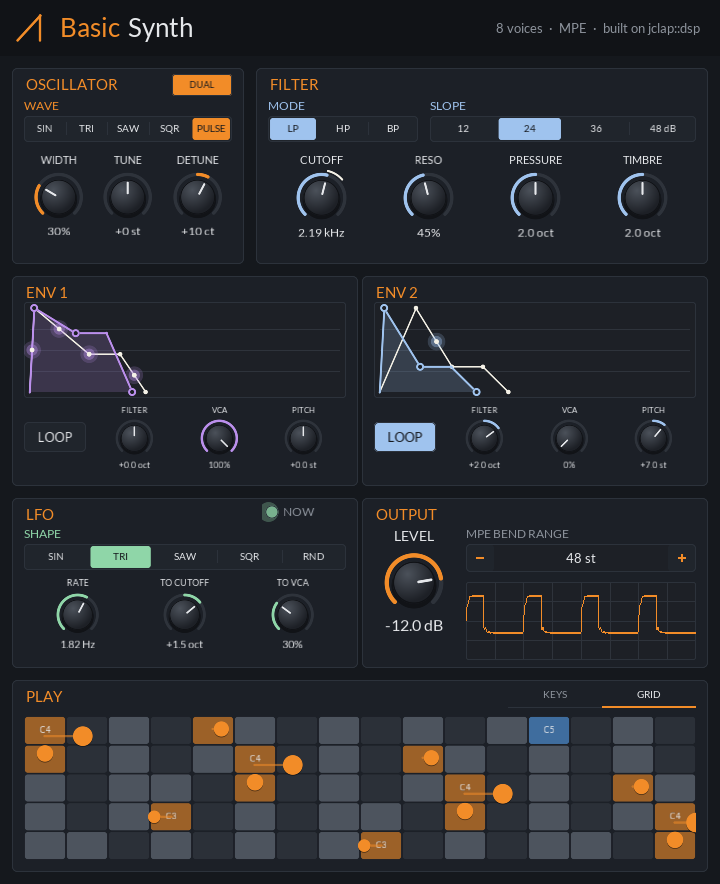
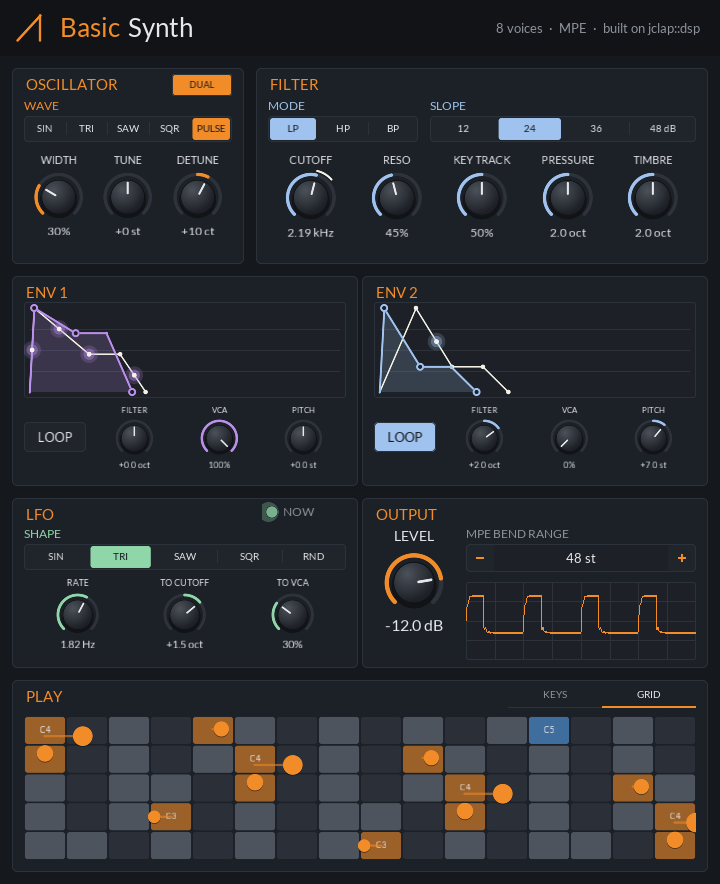
Basic Synth: filter key tracking
KEY TRACK moves the cutoff with the note's pitch, up to an octave per
octave from C4, and is modulatable per voice.

Claude-Session: https://claude.ai/code/session_012S2AHA8dQwVwrEzNnAoqai

Changed region(s): [[0.5194, 0.1527, 0.825, 0.2749], [0.3972, 0.1527, 0.4889, 0.2749], [0.8556, 0.1527, 0.9167, 0.2749]]

diff --git a/plugins/basic-synth/src/voice.h b/plugins/basic-synth/src/voice.h
@@ -4,7 +4,7 @@
 // filter, the VCA and the pitch by their own amounts. A looping envelope is not the voice's own: the
 // plugin runs one shared cycle and passes its value in, so every voice moves together, and an LFO moves the cutoff
 // and the VCA. Per-note expression (MPE) moves it too: bend sets the pitch, and pressure and timbre
-// open the filter.
+// open the filter, and the cutoff can follow the note.
 
 #include <jclap/dsp/envelope.h>
 #include <jclap/dsp/filter.h>
@@ -31,6 +31,8 @@ struct VoiceSettings {
    jclap::dsp::Filter::Mode filterMode = jclap::dsp::Filter::Mode::LowPass;
    jclap::dsp::Filter::Slope slope = jclap::dsp::Filter::Slope::Db24;
    double cutoffHz = 2000.0, resonance = 0.3;
+   // How far the cutoff follows the note's pitch, 0..1: at 1 it moves an octave per octave, from C4.
+   double keyTrack = 0.0;
    // An envelope: ADSR in seconds and sustain level, where it goes, and whether it loops (then the
    // voice takes the shared cycle's value instead). Filter is in octaves, pitch in semitones, both
    // either way; VCA is 0..1.
@@ -86,6 +88,7 @@ public:
          sends_[i] = s.env[i];
       }
       cutoff_.setTarget(std::log2(s.cutoffHz));
+      keyTrack_ = s.keyTrack;
       pressureAmount_ = s.pressureAmount;
       timbreAmount_ = s.timbreAmount;
       lfo_.setShape(s.lfoShape);
@@ -168,7 +171,7 @@ public:
          osc_.setFrequency(jclap::dsp::noteToHz(pitch));
          source = osc_.process();
       }
-      const double octaves = cutoff_.process() + toFilter + pressureAmount_ * pressure_.process() +
+      const double octaves = cutoff_.process() + toFilter + keyTrack_ * (pitch - 60.0) / 12.0 + pressureAmount_ * pressure_.process() +
                              timbreAmount_ * 2.0 * (timbre_.process() - 0.5) + lfoToCutoff_ * lfo;
       filter_.setCutoff(std::exp2(std::clamp(octaves, 3.0, 15.0)));
       // What the envelopes leave of the VCA follows the gate: with no envelope sent to it, the VCA
@@ -212,7 +215,7 @@ private:
    // Pitch in semitones; cutoff in octaves (log2 Hz). The gate glides over a few ms so a gate-only
    // VCA opens and closes without clicks.
    jclap::dsp::Smoother pitch_, pressure_, timbre_, cutoff_, gate_;
-   double pressureAmount_ = 0.0, timbreAmount_ = 0.0;
+   double keyTrack_ = 0.0, pressureAmount_ = 0.0, timbreAmount_ = 0.0;
    double lfoToCutoff_ = 0.0, lfoToVca_ = 0.0, lfoValue_ = 0.0;
    bool released_ = true;
    float level_ = 0.0f;

diff --git a/plugins/basic-synth/src/params.h b/plugins/basic-synth/src/params.h
@@ -25,6 +25,7 @@ enum ParamId : clap_id {
    kSlope,
    kCutoff,
    kResonance,
+   kKeyTrack,
    // Two envelopes, each the same eight params in the same order (see envParam()).
    kEnv1Attack,
    kEnv1Decay,
@@ -95,6 +96,7 @@ inline const jclap::core::ParamDef kParams[kParamCount] = {
    {kSlope, "Slope", "Filter", 0.0, 3.0, 1.0, kChoice},
    {kCutoff, "Cutoff", "Filter", 0.0, 1.0, 2.0 / 3.0, kMod},
    {kResonance, "Resonance", "Filter", 0.0, 1.0, 0.3, kMod},
+   {kKeyTrack, "Key Track", "Filter", 0.0, 1.0, 0.0, kMod},
    // Env 1 shapes the VCA and Env 2 the filter, to start with; either can go anywhere.
    {kEnv1Attack, "Env 1 Attack", "Env 1", 1.0, 2000.0, 5.0, kMod},
    {kEnv1Decay, "Env 1 Decay", "Env 1", 1.0, 2000.0, 400.0, kMod},
@@ -165,6 +167,7 @@ inline void formatParam(clap_id id, double value, char *out, size_t size) {
    switch (id) {
    case kPulseWidth:
    case kResonance:
+   case kKeyTrack:
    case kEnv1Sustain:
    case kEnv2Sustain:
    case kEnv1ToVca:
@@ -250,6 +253,7 @@ inline bool parseParam(clap_id id, const char *text, double &value) {
    switch (id) {
    case kPulseWidth:
    case kResonance:
+   case kKeyTrack:
    case kEnv1Sustain:
    case kEnv2Sustain:
    case kEnv1ToVca:

diff --git a/plugins/basic-synth/src/editor.cpp b/plugins/basic-synth/src/editor.cpp
@@ -155,11 +155,13 @@ private:
       add<ui::Section>({256, 68, 452, 196}, "FILTER");
       segments(kFilterMode, "MODE", {"LP", "HP", "BP"}, kBlue, {268, 116, 150, 26});
       segments(kSlope, "SLOPE", {"12", "24", "36", "48 dB"}, kBlue, {430, 116, 266, 26});
-      const auto cells = ui::row({268, 152, 428, 104}, 4);
+      const auto cells = ui::row({268, 152, 428, 104}, 5);
       knob(kCutoff, "CUTOFF", kBlue, cells[0]);
       knob(kResonance, "RESO", kBlue, cells[1]);
-      tips_.add(knob(kPressureAmount, "PRESSURE", kBlue, cells[2]), "How far MPE pressure opens the cutoff.");
-      tips_.add(knob(kTimbreAmount, "TIMBRE", kBlue, cells[3]),
+      tips_.add(knob(kKeyTrack, "KEY TRACK", kBlue, cells[2]),
+                "How far the cutoff follows the note: at 100% an octave up for each octave above C4.");
+      tips_.add(knob(kPressureAmount, "PRESSURE", kBlue, cells[3]), "How far MPE pressure opens the cutoff.");
+      tips_.add(knob(kTimbreAmount, "TIMBRE", kBlue, cells[4]),
                 "How far MPE timbre (slide, CC 74) moves the cutoff either way.");
    }
 

diff --git a/plugins/basic-synth/tests/test_plugin.cpp b/plugins/basic-synth/tests/test_plugin.cpp
@@ -381,6 +381,28 @@ int main() {
       h.setParam(kEnv1Release, 50.0);
    }
 
+   // Key track: a high sine through a low cutoff comes through louder once the cutoff follows it.
+   {
+      const double cutoff = h.paramValue(kCutoff);
+      h.setParam(kCutoff, cutoffValue(200.0));
+      const auto level = [&] {
+         h.note(CLAP_EVENT_NOTE_ON, 81, 1.0);
+         run(4800);
+         run(4800);
+         const double rms = run.rms();
+         h.note(CLAP_EVENT_NOTE_CHOKE, -1, 0.0, -1, -1);
+         run(64);
+         return rms;
+      };
+      const double fixed = level();
+      h.setParam(kKeyTrack, 1.0);
+      const double tracked = level();
+      JCLAP_CHECK(tracked > 4.0 * fixed);
+      JCLAP_CHECK(h.paramText(kKeyTrack, 0.5) == "50%");
+      h.setParam(kCutoff, cutoff);
+      h.setParam(kKeyTrack, 0.0);
+   }
+
    // Dual: a second oscillator detuned from the first. A few cents changes the sound but not the
    // pitch; at the top of the knob the second is an octave up.
    {

diff --git a/plugins/basic-synth/src/plugin.cpp b/plugins/basic-synth/src/plugin.cpp
@@ -373,6 +373,7 @@ private:
       vs.slope = static_cast<jclap::dsp::Filter::Slope>(choice(kSlope, slot) + 1);
       vs.cutoffHz = cutoffHz(value(kCutoff, s));
       vs.resonance = value(kResonance, s);
+      vs.keyTrack = value(kKeyTrack, s);
       vs.pressureAmount = value(kPressureAmount, s);
       vs.timbreAmount = value(kTimbreAmount, s);
       for (int i = 0; i < kEnvCount; ++i) {

diff --git a/plugins/basic-synth/tools/screenshot.cpp b/plugins/basic-synth/tools/screenshot.cpp
@@ -20,6 +20,8 @@ public:
          return 4.0;
       case kPulseWidth:
          return 0.3;
+      case kKeyTrack:
+         return 0.5;
       case kDual:
          return 1.0;
       case kCutoff:

diff --git a/plugins/basic-synth/README.md b/plugins/basic-synth/README.md
@@ -25,7 +25,7 @@ oscillator ──> filter ──> VCA ──> out
 ```
 
 - **Oscillator**: sine, triangle, saw, square or pulse, with pulse width, band-limited. DUAL adds a second oscillator of the same wave, detuned from the first by DETUNE: a few cents either side of the centre for beating, up to an octave up or down at the ends.
-- **Filter**: low, high or band pass at 12, 24, 36 or 48 dB/oct, with resonance.
+- **Filter**: low, high or band pass at 12, 24, 36 or 48 dB/oct, with resonance. KEY TRACK moves the cutoff with the note, up to an octave per octave from C4.
 - **Env 1 and Env 2**: two ADSRs, each with a **loop** toggle and three amounts: to the filter (±5 octaves), to the VCA (0 to 100%) and to the pitch (±24
   semitones). They start as Env 1 on the VCA and Env 2 on the filter. Whatever share of the VCA the
   envelopes don't take follows the key, so with both VCA amounts at 0 it is a plain organ-style gate.
